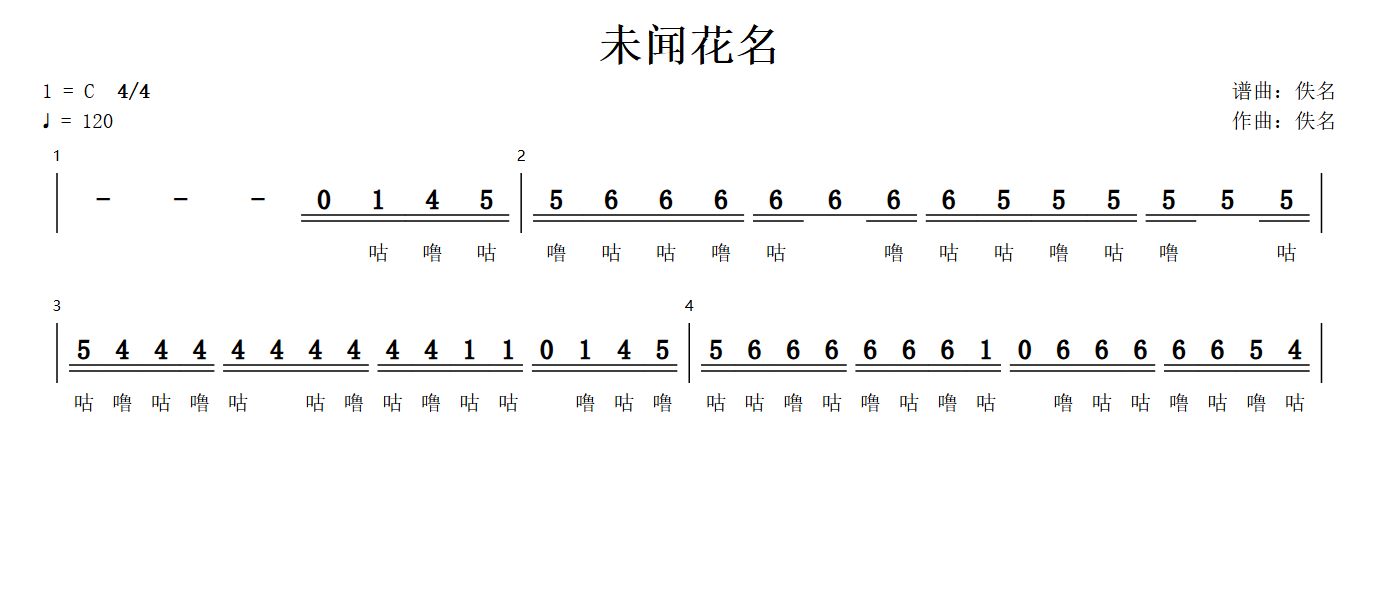
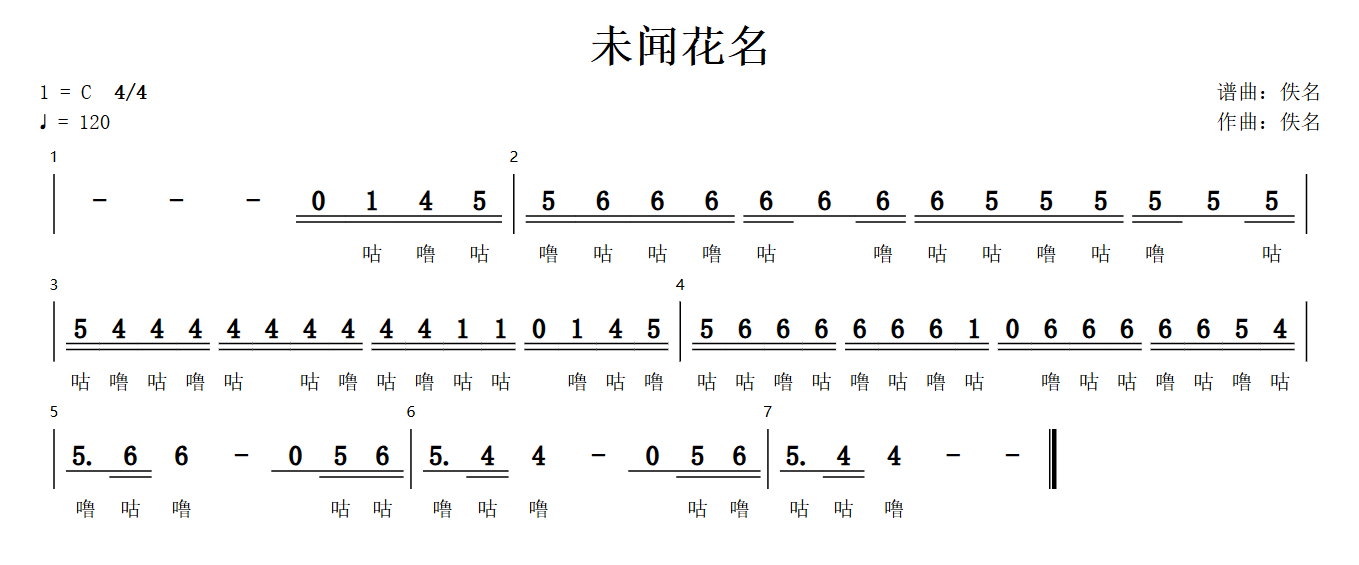
fix(score): 修复乐句末尾的结束线显示问题

diff --git a/lib/src/components/stave.ts b/lib/src/components/stave.ts
@@ -13,6 +13,8 @@ export class SNStave extends SNBox {
   measureOptions: SNMeasureOptions[] = []; // 当前乐句每个小节的配置
   measures: SNMeasure[] = []; // 当前乐句每个小节
   y: number; // 当前乐句的y轴坐标
+  endLine: boolean; // 当前乐句是否最后一句
+  width: number; // 当前乐句的宽度
 
   constructor(score: SNScore, options: SNStaveOptions) {
     super(
@@ -26,6 +28,10 @@ export class SNStave extends SNBox {
     this.weight = options.weight;
     this.measureOptions = options.measureOptions;
     this.y = options.y;
+    this.endLine = options.endLine;
+    this.width = this.endLine
+      ? (this.innerWidth / SNConfig.score.lineWeight) * this.weight
+      : this.innerWidth;
     this.el = SvgUtils.createG({
       tag: `stave-${this.index}`,
     });
@@ -34,15 +40,26 @@ export class SNStave extends SNBox {
     this.draw();
   }
 
-  drawMeasureEndLine() {
+  drawMeasureEndLine(totalX: number) {
     this.el.appendChild(
       SvgUtils.createLine({
-        x1: this.innerX + this.innerWidth,
+        x1: this.innerX + this.width,
         y1: this.innerY + 10,
-        x2: this.innerX + this.innerWidth,
+        x2: this.innerX + this.width,
         y2: this.innerY + SNConfig.score.lineHeight,
       }),
     );
+    if (this.endLine) {
+      this.el.appendChild(
+        SvgUtils.createLine({
+          x1: this.innerX + this.width + 3,
+          y1: this.innerY + 10,
+          x2: this.innerX + this.width + 3,
+          y2: this.innerY + SNConfig.score.lineHeight,
+          strokeWidth: 3,
+        }),
+      );
+    }
   }
 
   drawMeasureLine(measure: SNMeasure) {
@@ -57,7 +74,7 @@ export class SNStave extends SNBox {
   }
 
   draw() {
-    const unitWidth = this.innerWidth / this.weight;
+    const unitWidth = this.width / this.weight;
     let totalX = this.innerX;
     this.measureOptions.forEach((option) => {
       option.x = totalX;
@@ -67,6 +84,6 @@ export class SNStave extends SNBox {
       this.drawMeasureLine(measure);
       totalX += option.width;
     });
-    this.drawMeasureEndLine();
+    this.drawMeasureEndLine(totalX);
   }
 }

diff --git a/lib/src/components/score.ts b/lib/src/components/score.ts
@@ -137,6 +137,7 @@ export class SNScore extends SNBox {
       weight: 0,
       measureOptions: [],
       y: 0,
+      endLine: false,
     };
     let tempWeight = 0;
     scoreData.split('\n').forEach((measure, idx) => {
@@ -149,8 +150,8 @@ export class SNScore extends SNBox {
       this.noteCount = measureNoteCount;
       if (tempWeight > SNConfig.score.lineWeight) {
         if (
-          tempWeight - SNConfig.score.lineWeight <
-          SNConfig.score.allowOverWeight
+          tempWeight <
+          SNConfig.score.lineWeight + SNConfig.score.allowOverWeight
         ) {
           staveOption.measureOptions.push({
             index: idx + 1,
@@ -166,6 +167,7 @@ export class SNScore extends SNBox {
             weight: 0,
             measureOptions: [],
             y: 0,
+            endLine: false,
           };
         } else {
           staveOption.weight = tempWeight - weight;
@@ -183,6 +185,7 @@ export class SNScore extends SNBox {
               } as SNMeasureOptions,
             ],
             y: 0,
+            endLine: false,
           };
         }
       } else {
@@ -194,6 +197,10 @@ export class SNScore extends SNBox {
         } as SNMeasureOptions);
       }
     });
+    if (staveOption.measureOptions.length > 0) {
+      staveOption.weight = tempWeight;
+      this.staveOptions.push(staveOption);
+    }
   }
 
   draw(scoreData: string) {
@@ -202,16 +209,13 @@ export class SNScore extends SNBox {
     this.staveOptions.forEach((option, idx) => {
       option.index = idx + 1;
       option.y = totalY;
+      option.endLine = option.index === this.staveOptions.length;
       const stave = new SNStave(this, option);
       this.staves.push(stave);
       totalY +=
-        this.innerY +
-        idx *
-          (SNConfig.score.lineHeight +
-          SNConfig.score.lineSpace +
-          SNRuntime.lyric
-            ? SNConfig.score.lyricHeight
-            : 0);
+        SNConfig.score.lineHeight +
+        SNConfig.score.lineSpace +
+        (SNRuntime.lyric ? SNConfig.score.lyricHeight : 0);
     });
   }
 }

diff --git a/lib/src/types/options.ts b/lib/src/types/options.ts
@@ -34,6 +34,7 @@ export interface SNStaveOptions {
   weight: number; // 乐句总权重
   measureOptions: SNMeasureOptions[]; // 当前乐句每个小节的内容
   y: number; // 当前乐句的y轴坐标
+  endLine: boolean; // 当前乐句是否是最后一行
 }
 
 export interface SNMeasureOptions {
